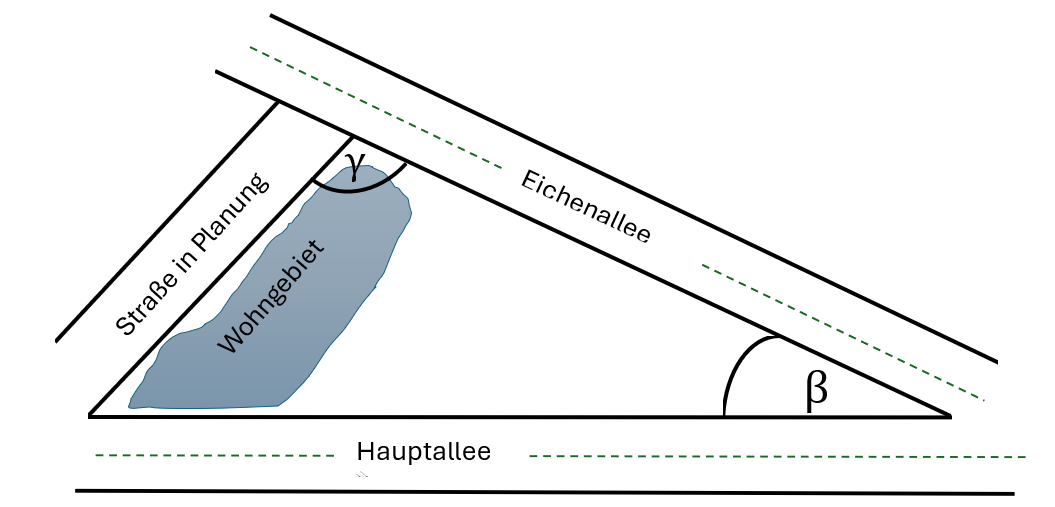
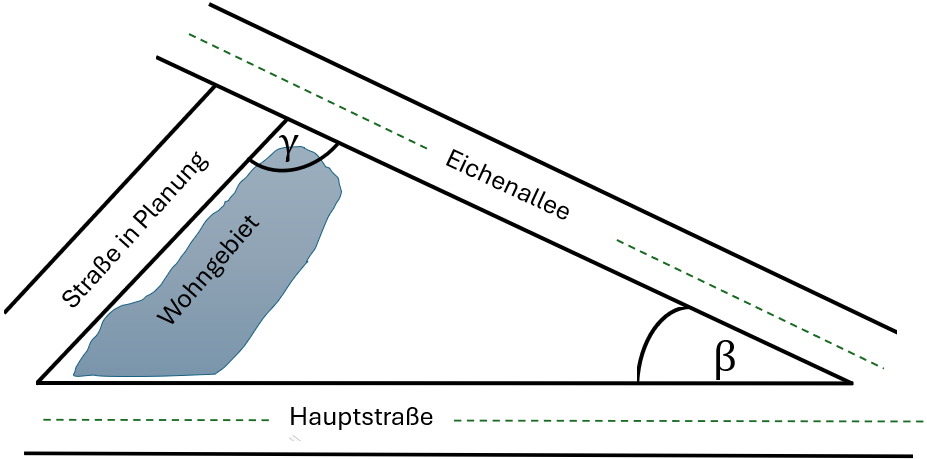
korrekturen bei Seiten bzw. Längenberechnung

diff --git a/Aufgaben/Mittelstufe_Geometrie.py b/Aufgaben/Mittelstufe_Geometrie.py
@@ -684,9 +684,9 @@ def berechnungen_allg_dreieck(nr, teilaufg=['a', 'b', 'c'], BE=[]):
     liste_bez = []
     i = 0
     def werte_bel_dreieck():
-        alpha = nzahl(60, 120)
+        alpha = random.choice([nzahl(60, 85), nzahl(95,120)])
         seite_a = nzahl(6, 12)
-        seite_b = seite_a * nzahl(3, 7) / 10
+        seite_b = seite_a * nzahl(4, 8) / 10
         beta = round(math.degrees(math.asin(math.sin(math.radians(alpha)) * seite_b / seite_a)))
         gamma = 180 - alpha - beta
         seite_c = round(seite_a * math.sin(math.radians(gamma)) / math.sin(math.radians(alpha)), 1)
@@ -786,13 +786,13 @@ def pruefung_kl10_allg_dr_01(nr, teilaufg=['a', 'b', 'c', 'd'], BE=[]):
     liste_punkte = []
     liste_bez = []
     i = 0
-    alpha = nzahl(60, 120)
-    seite_a = nzahl(6, 12)
-    seite_b = seite_a * nzahl(3, 7) / 10
-    beta = round(math.degrees(math.asin(math.sin(math.radians(alpha)) * seite_b / seite_a)))
-    gamma = 180 - alpha - beta
-    seite_c = round(seite_a * math.sin(math.radians(gamma)) / math.sin(math.radians(alpha)), 1)
-    seite_h = round(seite_a * math.sin(math.radians(beta)),1)
+    gamma = random.choice([nzahl(60, 85), nzahl(95,120)])
+    seite_c = nzahl(6, 12)
+    seite_a = seite_c * nzahl(6, 9) / 10
+    alpha = round(math.degrees(math.asin(math.sin(math.radians(gamma)) * seite_a / seite_c)))
+    beta = 180 - gamma - alpha
+    seite_b = round(seite_c * math.sin(math.radians(beta)) / math.sin(math.radians(gamma)), 1)
+    seite_h = round(seite_a * math.sin(math.radians(beta)), 1)
     # print('seite a ' + str(seite_a)), print('seite b ' + str(seite_b)), print('seite c ' + str(seite_c)), print('seite h ' + str(seite_h))
     gamma_1 = 90 - alpha
     xwert_punkt_c = round(math.cos(math.radians(alpha))*seite_b,3)
@@ -897,17 +897,17 @@ def sachaufgabe_vermessung_see(nr, BE=[]):
     # Mit dem Parameter "BE=[]" kann die Anzahl der Bewertungseinheiten festgelegt werden. Wird hier nichts eingetragen, werden die Standardbewertungseinheiten verwendet.
     liste_bez = [f'{nr}']
     i = 0
-    alpha = nzahl(60, 120)
-    seite_a = nzahl(6, 12)
-    seite_b = seite_a * nzahl(3, 7) / 10
-    beta = round(math.degrees(math.asin(math.sin(math.radians(alpha)) * seite_b / seite_a)))
-    gamma = 180 - alpha - beta
-    seite_c = round(seite_a * math.sin(math.radians(gamma)) / math.sin(math.radians(alpha)), 1)
+    gamma = random.choice([nzahl(60, 85), nzahl(95,120)])
+    seite_c = nzahl(6, 12)
+    seite_a = seite_c * nzahl(6, 9) / 10
+    alpha = round(math.degrees(math.asin(math.sin(math.radians(gamma)) * seite_a / seite_c)))
+    beta = 180 - gamma - alpha
+    seite_b = round(seite_c * math.sin(math.radians(beta)) / math.sin(math.radians(gamma)), 1)
 
     aufgabe = [MediumText(bold('Aufgabe ' + str(nr) + ' \n\n')),
                'Um die Länge eines Sees zu vermessen, wurden mit einem Theodoliten die Entfernung zu den äußeren '
                f'Ufern mit {gzahl(seite_a)}km und {gzahl(seite_c)}km und der eingeschlossen Winkel von {gzahl(beta)}° '
-               f'bestimmt. Berechne die Länge des Sees.', 'Bild',
+               f'bestimmt. Berechnen Sie die Länge des Sees.', 'Bild',
                'Die Skizze der Vermessung des Sees ist nicht maßstabsgerecht \n\n']
     loesung = [r' \mathbf{Lösung~Aufgabe~}' + str(nr) + r' \hspace{35em} \\',
                r' \mathrm{Planskizze \quad (1BE) \quad \to \quad geg  \colon ~ a ~=~' + gzahl(seite_a)
@@ -935,18 +935,18 @@ def sachaufgabe_strassenbau(nr, BE=[]):
     # Mit dem Parameter "BE=[]" kann die Anzahl der Bewertungseinheiten festgelegt werden. Wird hier nichts eingetragen, werden die Standardbewertungseinheiten verwendet.
     liste_bez = [f'{nr}']
     i = 0
-    alpha = nzahl(60, 120)
-    seite_a = nzahl(6, 12)
-    seite_b = seite_a * nzahl(3, 7) / 10
-    beta = round(math.degrees(math.asin(math.sin(math.radians(alpha)) * seite_b / seite_a)))
-    gamma = 180 - alpha - beta
-    seite_c = round(seite_a * math.sin(math.radians(gamma)) / math.sin(math.radians(alpha)), 1)
+    gamma = random.choice([nzahl(60, 85), nzahl(95,120)])
+    seite_c = nzahl(6, 12)
+    seite_a = seite_c * nzahl(4, 7) / 10
+    alpha = round(math.degrees(math.asin(math.sin(math.radians(gamma)) * seite_a / seite_c)))
+    beta = 180 - gamma - alpha
+    seite_b = round(seite_c * math.sin(math.radians(beta)) / math.sin(math.radians(gamma)), 1)
 
     aufgabe = [MediumText(bold('Aufgabe ' + str(nr) + ' \n\n')),NoEscape(
                f'Um ein Wohngebiet zu erschließen, wird der Bau einer neuen Straße geplant. Die neue Straße soll in '
                r'einem Winkel $ \gamma = $ '+ f' {gzahl(gamma)}° an die Eichenallee anschließen und der '
                f'Straßenabschnitt der Hauptstraße, zwischen der geplanten Straße und der Eichenallee, soll '
-               f'{gzahl(seite_c)}km lang sein. \n Berechne die Länge der geplanten neuen Straße, '
+               f'{gzahl(seite_c)}km lang sein. \n Berechnen Sie die Länge der geplanten neuen Straße, '
                r'wenn der Winkel $ \beta $ ' + f'zwischen der Eichenallee und der Hauptstraße {gzahl(beta)}° beträgt.'),
                'Bild', 'Skizze des geplanten Bauprojekt ist nicht maßstabsgerecht \n\n']
     loesung = [r' \mathbf{Lösung~Aufgabe~}' + str(nr) + r' \hspace{35em} \\',
